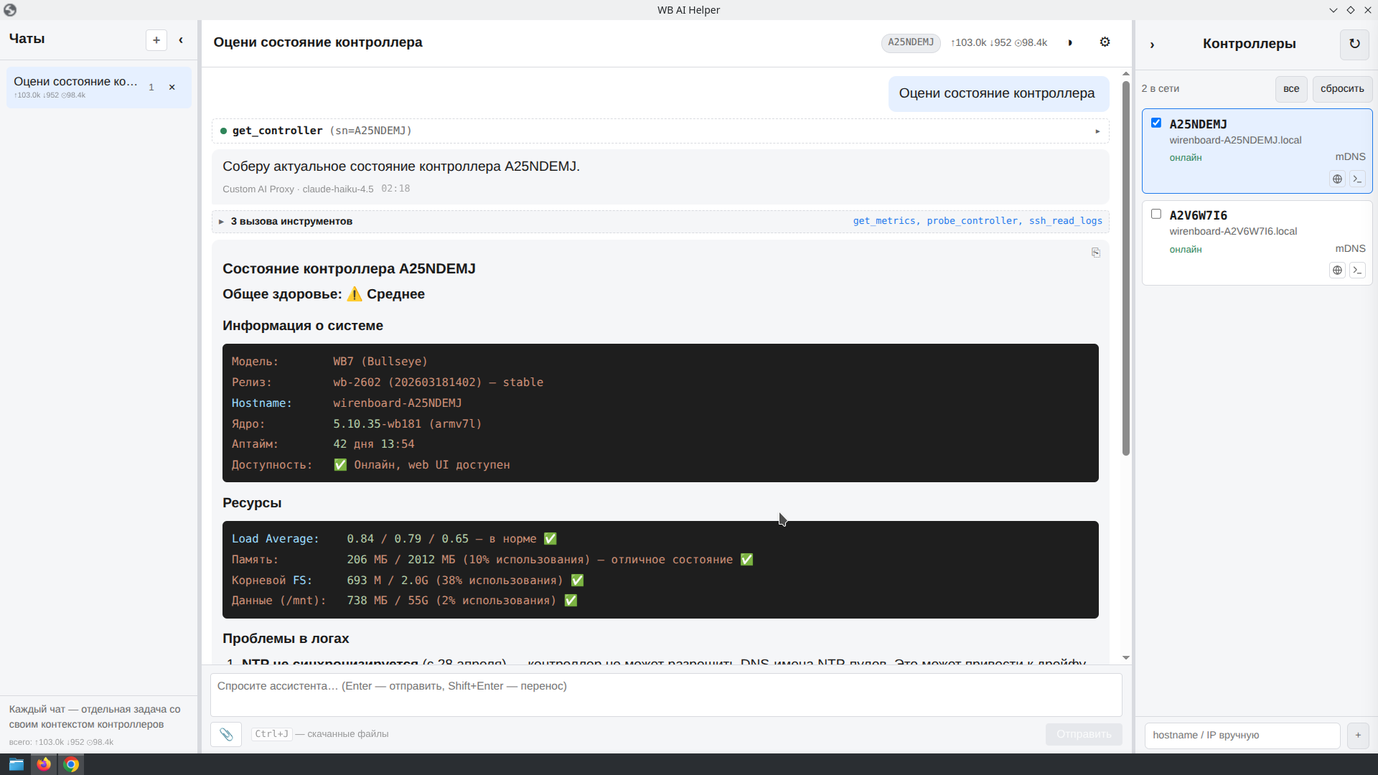
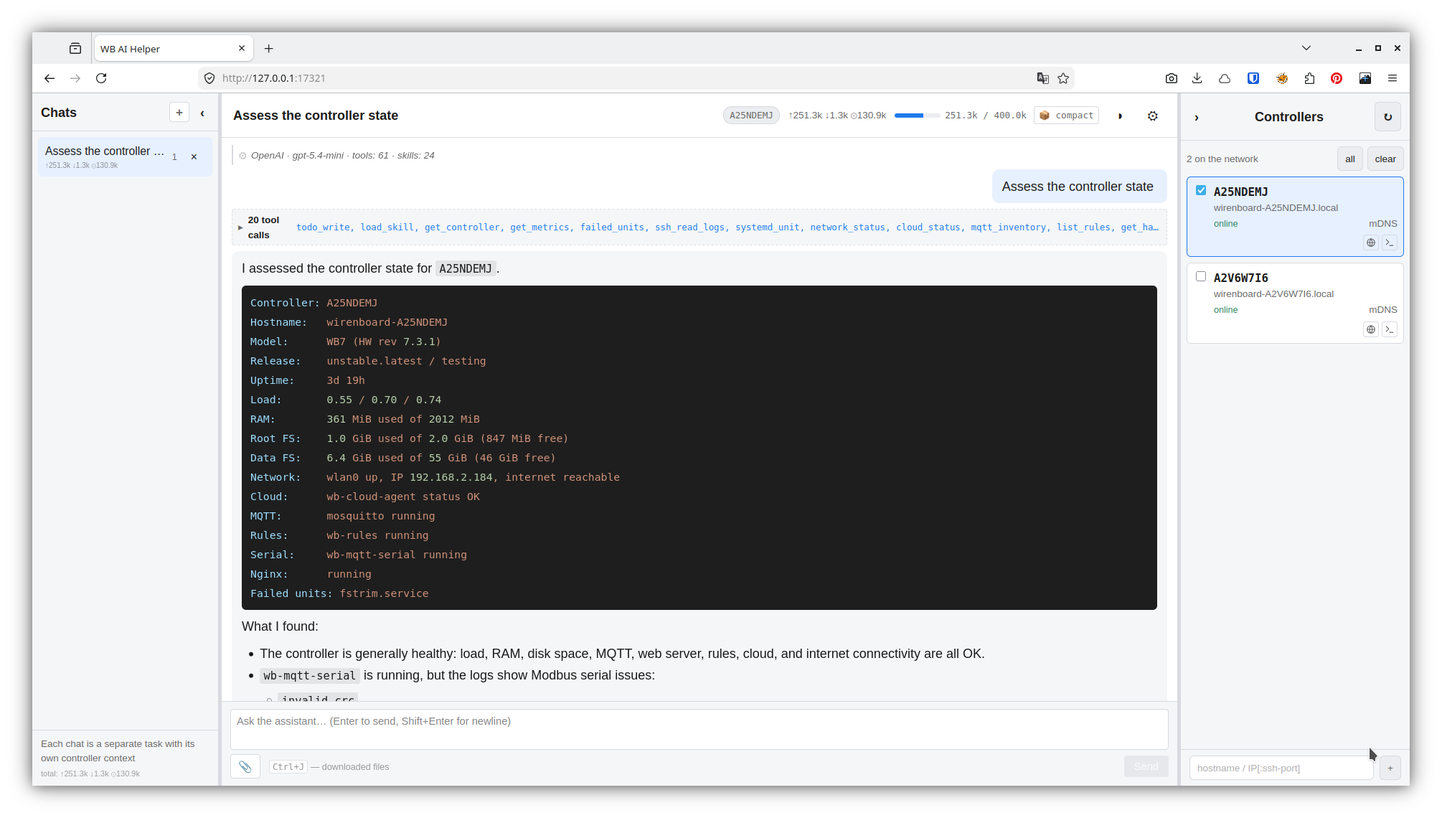
fix: язык ответа строго по интерфейсу + английский README
Модель отвечала на неправильном языке по двум причинам:
1. Системный промпт с языковой директивой запекался один раз при создании
   чата — после смены языка в Настройках существующие чаты сохраняли старый
   язык. Теперь ведущий system-turn пересобирается под текущий язык на каждой
   отправке (index.ts).
2. Директива была одной строкой в хвосте огромного русского системного
   промпта, и слабые модели её игнорировали, якорясь на русском. Вынесена в
   начало промпта отдельным приоритетным блоком и переписана жёстко: «отвечай
   строго на языке интерфейса, это перекрывает язык инструкций ниже».

Также добавлен английский README (README.en.md) с переключателем языка в
обоих файлах и обновлён скриншот главного окна.

Changed region(s): [[0.0, 0.0, 1.0, 1.0], [0.375, 0.4889, 0.4062, 0.5194]]

diff --git a/src/server/chats.ts b/src/server/chats.ts
@@ -72,13 +72,17 @@ const SYSTEM_PROMPT = `Ты — десктопный помощник интег
 - **Специализированные скиллы** — подгружай через \`load_skill("<name>")\` СТРОГО ДО действий с контроллером. Если задача касается wb-mqtt-serial, wbrules, confed, hardware, zigbee, обновлений — сначала найди и загрузи подходящий скилл, только потом действуй. Не начинай выполнение пока не убедился, что нужный скилл загружен или его нет. После завершения задачи — \`unload_skill("<name>")\`. Каталог доступных скиллов виден в системном промпте каждого хода.
 - **Если нет нужного скилла и нет уверенности в деталях** (путь файла, имя RPC-метода, формат конфига): сначала загрузи подходящий скилл → если скилла нет, сходи в документацию (\`web_fetch\` вики/GitHub) → если документация не дала ответа, **уточни у пользователя**. Не угадывай и не пробуй наугад — одна ошибочная операция может сломать конфиг.`
 
-// Языковая директива выбирается по uiLanguage, но в любом случае велит
-// модели ЗЕРКАЛИТЬ язык пользователя — даже если он сменит язык посреди чата.
-// Персона-промпт остаётся на русском (это инструкции модели, не текст для
-// пользователя); язык ответов полностью задаёт эта директива.
+// Языковая директива идёт ПЕРВЫМ блоком системного промпта (см.
+// systemPromptFor) и намеренно перебивает язык самих инструкций: тело
+// персона-промпта написано по-русски, но это инструкции для модели, а не текст
+// для пользователя — язык ответа полностью задаёт эта директива. Без вынесения
+// наверх и жёсткой формулировки слабые модели якорятся на доминирующем
+// (русском) языке промпта и игнорируют одну строчку в хвосте.
 const LANG_DIRECTIVE: Record<Lang, string> = {
-  ru: '- **Язык ответа = язык пользователя.** Пишет по-русски — отвечай по-русски, по-английски — по-английски. По умолчанию русский. Кратко, без лишнего форматирования.',
-  en: '- **Reply in the user’s language.** If they write in English, answer in English; if in Russian, answer in Russian. Default to English. Be concise, without unnecessary formatting.',
+  ru: `# ЯЗЫК ОТВЕТА (важнее всего остального)
+Отвечай пользователю ТОЛЬКО на русском языке. Это правило перекрывает язык остальных инструкций ниже и любые языковые привычки. Даже если пользователь напишет на другом языке — отвечай по-русски (язык интерфейса — русский). Исключение: пользователь явно попросил переключиться на другой язык. Внутренние рассуждения, имена инструментов и технические идентификаторы не переводи.`,
+  en: `# RESPONSE LANGUAGE (top priority — overrides everything below)
+Reply to the user ONLY in English. This rule overrides the language of all instructions below (they are written in Russian, but that is for the model — your reply language is set HERE, not by them) and any language habits. Even if the system prompt body is in Russian, your answer to the user must be in English (the UI language is English). Exception: the user explicitly asks you to switch languages. Do not translate internal reasoning, tool names, or technical identifiers.`,
 }
 
 const CONTEXT_SUFFIX: Record<Lang, { none: string; selected: (sns: string[]) => string }> = {
@@ -312,7 +316,9 @@ export class ChatStore {
     const ctx = sns.length
       ? CONTEXT_SUFFIX[lang].selected(sns)
       : CONTEXT_SUFFIX[lang].none
-    return `${SYSTEM_PROMPT}\n\n${LANG_DIRECTIVE[lang]}\n\n${ctx}`
+    // Директива языка — ПЕРВЫМ блоком: позиция инструкции решает, наверху её
+    // модель не игнорирует. Контекст-суффикс — в хвосте.
+    return `${LANG_DIRECTIVE[lang]}\n\n${SYSTEM_PROMPT}\n\n${ctx}`
   }
 
   private loadTurns(chatId: string): ChatTurn[] {

diff --git a/src/server/index.ts b/src/server/index.ts
@@ -470,6 +470,15 @@ app.post('/api/chats/:id/message', async (c) => {
     const agentState: { checkpointSummary?: string } = {}
     const lang = settingsStore.get().uiLanguage
     const L = (ru: string, en: string) => (lang === 'en' ? en : ru)
+    // Refresh the leading system prompt to the CURRENT language + context.
+    // The system turn is persisted once at chat creation; if the user switched
+    // uiLanguage afterwards, its baked LANG_DIRECTIVE (and its default-language
+    // hint) would stay stale and the model would keep replying in the old
+    // language. Regenerate it from current settings on every send.
+    const sysTurn = chatWithUser.turns[0]
+    if (sysTurn && sysTurn.role === 'system') {
+      sysTurn.content = chats.systemPromptFor(chat.contextSns, lang)
+    }
     const ctx = { discovery, mqtt, ssh, contextSns: chat.contextSns, db, sessionId: id, agentState, braveApiKey: process.env['BRAVE_SEARCH_API_KEY'] }
     let assistantText = ''
     const pendingToolCalls: { id: string; name: string; arguments: string }[] = []

diff --git a/README.en.md b/README.en.md
@@ -1,0 +1,211 @@
+# WB AI Helper — desktop AI assistant for Wiren Board
+
+**English** · [Русский](README.md)
+
+> **Prototype / experimental project.**
+> An early version for internal testing, not ready for use in critical production environments.
+> The tool has direct access to controllers over MQTT and SSH — including writing topics, running arbitrary commands and background jobs via `systemd-run`. Use it deliberately and at your own risk.
+
+![Main window](docs/screenshots/main.png)
+
+A single binary for Linux / Windows + an AppImage for the Linux desktop. Download → run → an embedded Chrome window opens with the chat and a list of controllers discovered on the local network via mDNS (`wirenboard-<SN>.local`). LLM keys, MQTT and SSH credentials are set in the UI and stored in `~/.config/wb-ai-helper/` (or next to the binary in standalone mode).
+
+## Quick start
+
+1. **Download the build for your OS** from [Releases](../../releases/latest):
+   - Linux desktop: `WB-AI-Helper-x86_64.AppImage` (all-in-one with UI)
+   - Linux CLI / server: `wb-ai-helper-linux-x64`
+   - Windows: `wb-ai-helper-windows-x64.exe`
+2. **Get an API key** from any OpenAI-compatible provider:
+   - **OpenAI** — [platform.openai.com/api-keys](https://platform.openai.com/api-keys); top up the balance with a credit card. Recommended model — `gpt-4.1` or `gpt-5.4-mini`
+   - **AITunnel** — [aitunnel.ru](https://aitunnel.ru/) (reachable from Russia without a VPN, RUB billing, payment by a Russian card, 200+ models including Claude/GPT/Gemini)
+   - **OpenRouter** — [openrouter.ai](https://openrouter.ai/) (300+ models; payment by card or via Alipay, which can be topped up from Sber or T-Bank)
+   - **Self-hosted** — Ollama / LiteLLM / vLLM on your own server, key optional
+   - **Corporate / MITM proxy** — see the [Custom AI Proxy](#custom-ai-proxy) section below
+3. **Run and configure:**
+   - `chmod +x ./WB-AI-Helper-x86_64.AppImage && ./WB-AI-Helper-x86_64.AppImage`
+   - Open «Settings» (⚙) in the header
+   - Pick a provider → paste the key → click «refresh list» → pick a model → «Save»
+4. Controllers in the right column appear automatically via mDNS. If mDNS is blocked on your network — add one manually by hostname/IP.
+5. The chat is live. For example: «what is connected on the RS-485 bus?», «send me a chart of CPU temperature since yesterday».
+
+### What to download?
+
+| File | OS | Description |
+|------|----|-------------|
+| `WB-AI-Helper-x86_64.AppImage` | Linux | All-in-one: server + auto-launch of Chrome in app mode (no address bar). If Chrome/Chromium is not installed — opens the UI in the default browser via `xdg-open` |
+| `wb-ai-helper-linux-x64` | Linux | Standalone CLI/server. Serves HTTP on port 17321, opens the browser. Suitable for headless use or when the AppImage is not needed |
+| `wb-ai-helper-windows-x64.exe` | Windows | Standalone server. Serves HTTP on port 17321 and opens the browser |
+
+## What it can do
+
+**Discovery and controller operations:**
+- **mDNS network scanner** — automatically finds controllers matching the `wirenboard-<SN>.local` pattern. The list refreshes every ~15 seconds. If mDNS is blocked on the network, a controller can be added manually by hostname or IP
+- **Controller Web UI** — clicking 🌐 on a card opens the controller's web interface in a new tab
+- **Built-in SSH terminal** — clicking ▷_ opens a bottom sheet with xterm.js over an ssh2 session. Hotkeys, colors, ANSI escapes — everything works
+- Multiple chats in parallel, each with its own controller context (one / a selected group / all)
+
+**LLM with tool-calling:**
+- 5 provider profiles: **OpenAI** (direct access), **AITunnel** (RUB billing, balance/stats right in settings), **OpenRouter** (USD, key balance/limits in settings, 300+ models, context auto-detection from `/v1/models`), **Custom** (Ollama, LiteLLM, vLLM…), **Custom AI Proxy** (MITM proxy with a CA certificate). Each keeps its own key/baseURL/model/proxy/CA/temperature/contextWindow/auto-compaction — switched instantly
+- Per-provider context-window control: auto-detection from `/v1/models` (for providers like OpenRouter), a manual override, an optional separate (cheaper) model for checkpoints, auto-compaction when the window fills past a configurable threshold
+- ~50 tools: `mqtt_*`, `ssh_*`, `wb_bus_scan`, `serial_debug_collect`, `audit_controller`, `get_history`/`get_history_chart` (charts via vega-lite — line/bar/area/point/histogram/heatmap/boxplot), `fetch_from_controller`/`upload_to_controller`, `save_rule`/`load_rule`/`delete_rule` (wb-rules via `wbrules/Editor`)
+- 17 skills (`controller-backup`, `controller-update`, `wb-mqtt-serial`, `wb-rules`, `troubleshooting-*`, `diagrams`, `history` and others) — loaded on demand via `load_skill`
+- Background jobs (`ssh_exec_async`, `wb_bus_scan`, `serial_debug_collect`) — launched via `systemd-run` on the controller, with an inline indicator in the chat and a 5-second undo to cancel
+- Attachments: user uploads (via 📎) and model-produced files (`fetch_from_controller`/`get_history_chart`) are separated by source — the model does not receive its own files back
+- Per-message cost (USD per 1M tokens for OpenAI, server-side cost in RUB for AITunnel/VseGPT via `usage.cost_rub`/`total_cost`)
+- Readable provider errors: 401 «invalid key», 402 «insufficient funds», 403 «moderation» (with reasons/snippet), 408/429/502 — without a raw stack trace
+
+**UI/UX:**
+- Collapsible side panels (chats on the left, controllers on the right)
+- Model search (typeahead)
+- Chat deletion + «delete all» with a 5-second undo
+- Export/import settings as JSON (including keys and CA)
+- Dark/light/auto theme, font-size adjustment
+
+## Where data is stored
+
+| Mode | Path |
+|------|------|
+| AppImage / dev | `~/.config/wb-ai-helper/` (Linux/XDG) |
+| Standalone binary | next to the binary |
+
+Files: `settings.json`, `wb-ai-helper.db` (SQLite WAL — chats, history), `attachments/<chatId>/` (attachments). Old chats are cleaned up automatically after 24 h.
+
+## SSH authentication
+
+By default `root` / `wirenboard` (Wiren Board factory credentials). In «Settings»:
+
+1. **Private key** — path to the file. Tried first.
+2. **Password** — fallback (with keyboard-interactive).
+
+## Custom AI Proxy
+
+For corporate proxies with TLS-MITM that proxy OpenAI-compatible endpoints (Copilot, a corporate gateway, etc.):
+
+1. Provider: **Custom AI Proxy**
+2. Base URL: the real upstream API (e.g. `https://api.githubcopilot.com`)
+3. API key: can be a dummy if the proxy injects the real one
+4. Proxy for the LLM: `https://USER:PASS@host:port` (auth right in the URL)
+5. Proxy CA certificate: upload a `.pem` file — its contents are stored in `settings.json` and go into `tls.ca` of Bun's fetch
+
+The «refresh list» button works even if the proxy does not expose `/v1/models`: it hits `/v1/chat/completions` with a fake model and parses «Available models: …» from the 400 response.
+
+> **OpenAI Chat Completions API only.** The Anthropic Messages API is not supported.
+
+## Building and development
+
+Dependencies: [Bun](https://bun.sh) 1.3+ (Node.js not required).
+
+```bash
+bun install
+
+# Build
+bun scripts/build.ts                    # binary for the current platform
+bun scripts/build.ts --all              # linux-x64 + windows-x64
+bun scripts/build.ts --target=linux-x64 # explicit target
+bun scripts/build-appimage.ts           # AppImage (needs appimagetool + a built linux-x64)
+bun scripts/smoke.ts                    # smoke test of the built binary
+
+# Tests
+bun test                                # all tests
+bun test:unit                           # unit + lightweight integration (no binary)
+bun test:api                            # API integration (needs a built binary)
+
+# Type checking
+bun run typecheck                       # tsc + vue-tsc
+
+# Development (two terminals)
+bun run dev:server                      # backend with hot-reload on :17321
+bun run dev:web                         # vite dev on :5173 with proxy /api → :17321
+```
+
+Binaries land in `build/`. In dev mode open `http://127.0.0.1:5173/`.
+
+## CI/CD
+
+GitHub Actions builds the project automatically.
+
+- **CI** (push to `main`, pull requests) — typecheck → build (linux-x64 + windows-x64) → upload artifacts (14 days)
+- **Release** (push of a `v*` tag) — typecheck → build → AppImage → GitHub Release with binaries
+
+### How to cut a release
+
+Before tagging:
+1. Bump `version` in `package.json`.
+2. Move the entries from `## [Unreleased]` in `CHANGELOG.md` into a new `## [X.Y.Z] — YYYY-MM-DD` section and add the comparison link at the bottom.
+3. Commit «chore: release X.Y.Z», merge into `main`.
+
+```bash
+git tag v0.13.0
+git push origin v0.13.0
+```
+
+The tag must match `package.json:version`. In about a minute the release workflow builds and publishes.
+
+In about a minute the binaries appear on the [Releases](../../releases) page.
+
+## Architecture
+
+```
+src/
+├── server/                  Bun + Hono, everything in one process
+│   ├── index.ts             Bun.serve: HTTP + SSE + WebSocket (SSH terminal)
+│   ├── settings.ts          per-provider profiles, CA cert inline (PEM in JSON)
+│   ├── llm.ts               OpenAI streaming, agent loop (up to 20 turns)
+│   ├── tools.ts             ~50 tools: mqtt/ssh/discovery/history/wb-rules
+│   ├── history-chart.ts     chart rendering via vega-lite SSR (line/bar/heatmap/...)
+│   ├── jobs.ts              tracker of background SSH jobs (in-memory)
+│   ├── attachments.ts       files tagged source='user'|'assistant'
+│   ├── chats.ts             SQLite store chats/turns + system prompt (language directive RU/EN)
+│   ├── skills.ts            catalog + loading of skills (English, model-facing) into the LLM context
+│   ├── ssh.ts               ssh2 client pool, exec/jobStart/openShell, SFTP
+│   ├── mqtt-pool.ts         mqtt.js client pool
+│   ├── discovery.ts         mDNS/avahi-browse scanner
+│   ├── db.ts                bun:sqlite WAL + migrations
+│   └── fixtures/skills/     17 markdown skills
+└── web/                     Vue 3, Vite, no UI framework
+    ├── App.vue              root layout
+    ├── api.ts               API client + types
+    ├── i18n.ts              UI dictionaries RU/EN + t()/plural()/fmtSize(), reactive lang
+    ├── components/
+    │   ├── ChatList.vue                Left sidebar (chats + delete-all undo)
+    │   ├── ChatPane.vue                Chat + input field
+    │   ├── ChatMessageList.vue         Message list + inline jobs
+    │   ├── ChatMessage.vue             A single bubble (markdown + mermaid + hljs + files)
+    │   ├── ChatInputArea.vue           Text + attachments + drag-drop
+    │   ├── ControllerList.vue          Right sidebar + Web UI/Terminal icons
+    │   ├── SettingsPanel.vue           Providers, keys, CA cert, prices, export/import
+    │   ├── ComboboxSearch.vue          Typeahead model picker
+    │   └── SshTerminal.vue             xterm.js bottom-sheet, WS to ssh2
+    └── composables/useAttachments.ts
+```
+
+Under `bun build --compile` the frontend is packed into the binary via `import('./web/dist/...', { with: { type: 'file' } })` — no separate assets needed. The AppImage is a wrapper script (AppRun) over the same binary that finds Chrome/Chromium and launches it in `--app` mode.
+
+### Localization (RU/EN)
+
+Principle: **user-facing text is bilingual; model-facing text is single-language (English), because the model bridges languages itself**.
+
+- **UI** — `src/web/i18n.ts`: a lightweight module without vue-i18n (`t()`/`plural()`/`fmtSize()`, reactive `lang`, autodetect from `localStorage('wb-lang')` + `navigator.language`). Components import `t`/`plural` directly. To add a string — put the key into both `ru`/`en` blocks and use `t('group.key')`.
+- **`settings.uiLanguage`** (shared field, `WB_HELPER_LANGUAGE` env) sets the UI language and the few server strings the user sees: the system-prompt language directive (`LANG_DIRECTIVE` in `chats.ts` — a top-priority block prepended to the system prompt that forces the model to **reply strictly in the UI language**, overriding the Russian persona body), welcome/fallback/checkpoint messages and `getExtraSystemMsgs` (via the `L()` helper in `index.ts`).
+- **Skills (`fixtures/skills/*.md`) and tool descriptions (`tools.ts`) are English-only, a single set.** These are model-facing instructions, never shown verbatim to the user; the model reads English and still replies in the UI language. No `.en.md` variants, no `toolSchemas(lang)`. The `{en, ru}` / `translations.ru` blocks inside `wb-rules.md` and `wb-serial-templates.md` are intentional — they document those skills' own bilingual APIs.
+- The `[Система]` prefix is a technical protocol sentinel, not translated (the frontend strips it before display).
+
+## Environment variables
+
+Applied only on the first run and written into `settings.json`:
+
+| Variable | Description | Default |
+|----------|-------------|---------|
+| `OPENAI_API_KEY` | initial LLM key | — |
+| `OPENAI_BASE_URL` | custom endpoint | `https://api.openai.com/v1` |
+| `OPENAI_MODEL` | model name | — |
+| `WB_HELPER_PORT` | UI port | `17321` |
+| `WB_HELPER_OPEN_BROWSER` | `0` to not open a window | `1` |
+| `WB_HELPER_LANGUAGE` | UI/assistant language: `ru` or `en` | `ru` |
+| `WB_HELPER_DISCOVERY_INTERVAL` | mDNS scan interval, ms | `15000` |
+| `WB_HELPER_MQTT_USER` | MQTT login | — |
+| `WB_HELPER_MQTT_PASSWORD` | MQTT password | — |
+| `WB_HELPER_SSH_USER` | SSH login | `root` |
+| `WB_HELPER_SSH_PASSWORD` | SSH password | `wirenboard` |
+| `WB_HELPER_SSH_KEY` | path to a private key | — |

diff --git a/CHANGELOG.md b/CHANGELOG.md
@@ -16,6 +16,16 @@
   единым набором — это инструкции для модели, поэтому без дублирования по
   языкам (модель сама переводит ответ пользователю).
 
+### Fixed
+- **Модель отвечала на неправильном языке.** Две причины: (1) системный промпт
+  с языковой директивой запекался один раз при создании чата — после смены
+  языка в Настройках существующие чаты сохраняли старый язык; теперь ведущий
+  system-turn пересобирается под текущий язык на каждой отправке. (2) Языковая
+  директива была одной строкой в хвосте огромного русского системного промпта,
+  и слабые модели её игнорировали, якорясь на русском. Директива вынесена в
+  начало промпта отдельным приоритетным блоком и переписана жёстко: «отвечай
+  строго на языке интерфейса, это перекрывает язык инструкций ниже».
+
 ## [0.13.22] — 2026-05-13
 
 ### Fixed

diff --git a/README.md b/README.md
@@ -1,5 +1,7 @@
 # WB AI Helper — десктопный AI-помощник для Wiren Board
 
+[English](README.en.md) · **Русский**
+
 > **Прототип / экспериментальный проект.**
 > Ранняя версия для внутреннего тестирования, не готовая к использованию в критичных production-средах.
 > Инструмент имеет прямой доступ к контроллерам через MQTT и SSH — включая запись топиков, выполнение произвольных команд и фоновые задачи через `systemd-run`. Используйте осознанно и на собственный страх и риск.
